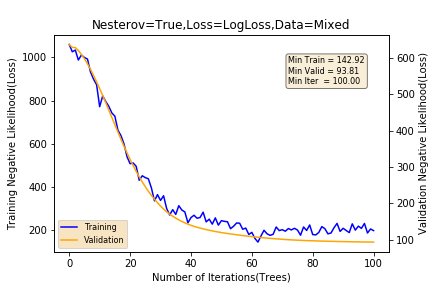
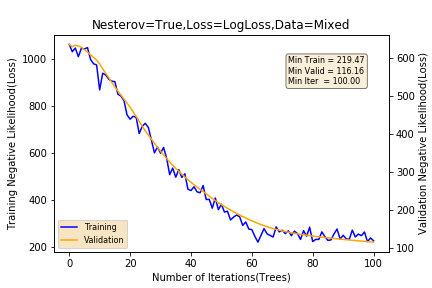
2JUl2019

diff --git a/AFT/py/.ipynb_checkpoints/_aft_loss-checkpoint.py b/AFT/py/.ipynb_checkpoints/_aft_loss-checkpoint.py
@@ -170,7 +170,7 @@ def _hessian(y_lower, y_higher, y_pred, sigma, event = 'left', dist = 'normal'):
         F_z_l      = _F_z(z_l,dist)
         grad_f_z_u = _grad_f_z(z_u,dist)
         grad_f_z_l = _grad_f_z(z_l,dist) 
-        hess       = (-(F_z_u-F_z_l)*(grad_f_z_u-grad_f_z_l)+(f_z_u-f_z_l)**2)/(sigma**2*(F_z_u-F_z_l)**2)
+        hess       = -((F_z_u-F_z_l)*(grad_f_z_u-grad_f_z_l)-(f_z_u**2+f_z_l**2))/(sigma**2*(F_z_u-F_z_l)**2)
         return hess
     
 

diff --git a/AFT/py/_aft_loss.py b/AFT/py/_aft_loss.py
@@ -170,7 +170,7 @@ def _hessian(y_lower, y_higher, y_pred, sigma, event = 'left', dist = 'normal'):
         F_z_l      = _F_z(z_l,dist)
         grad_f_z_u = _grad_f_z(z_u,dist)
         grad_f_z_l = _grad_f_z(z_l,dist) 
-        hess       = (-(F_z_u-F_z_l)*(grad_f_z_u-grad_f_z_l)+(f_z_u-f_z_l)**2)/(sigma**2*(F_z_u-F_z_l)**2)
+        hess       = -((F_z_u-F_z_l)*(grad_f_z_u-grad_f_z_l)-(f_z_u**2+f_z_l**2))/(sigma**2*(F_z_u-F_z_l)**2)
         return hess
     
 
